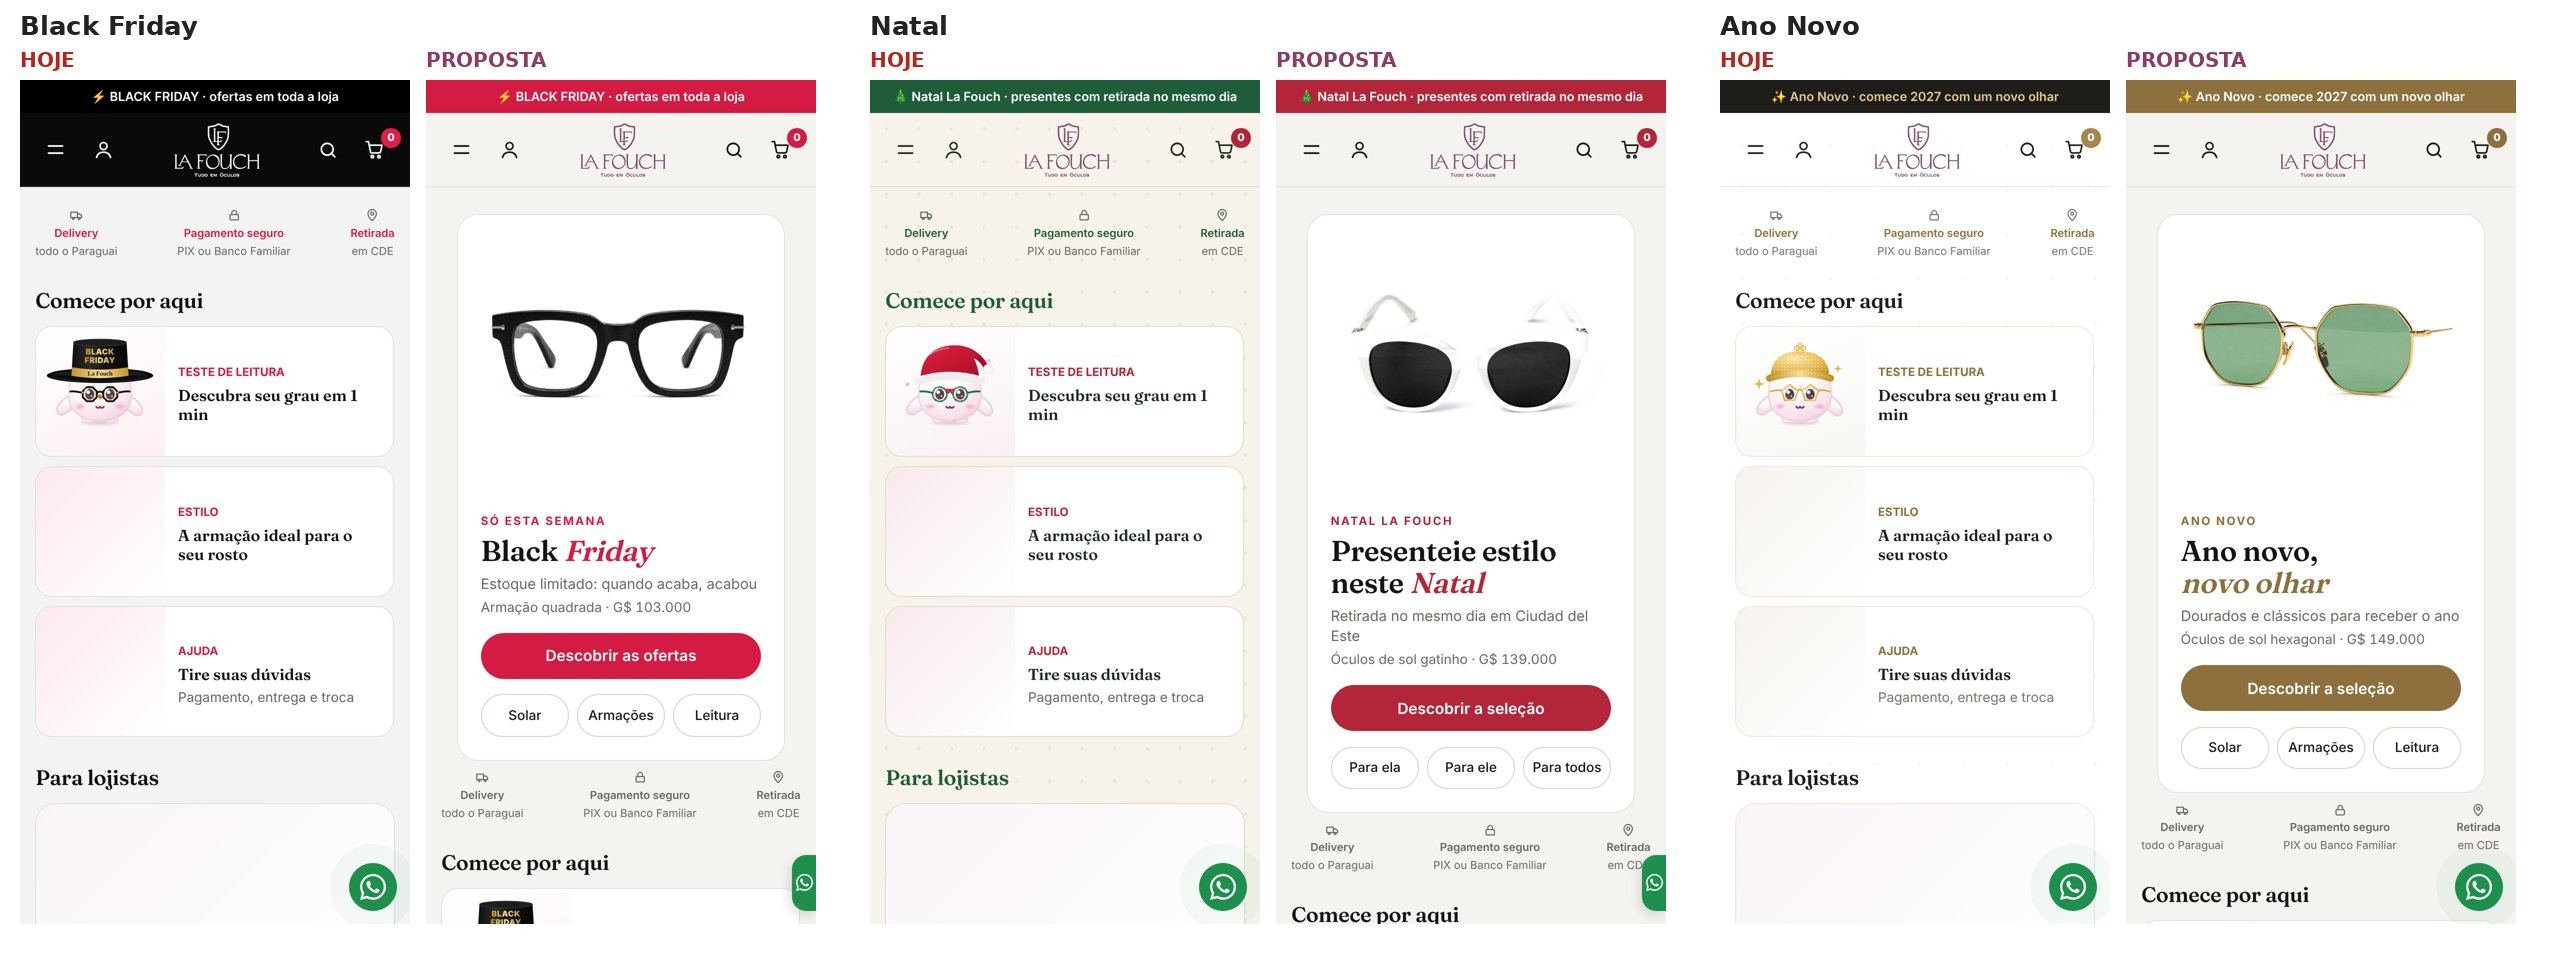
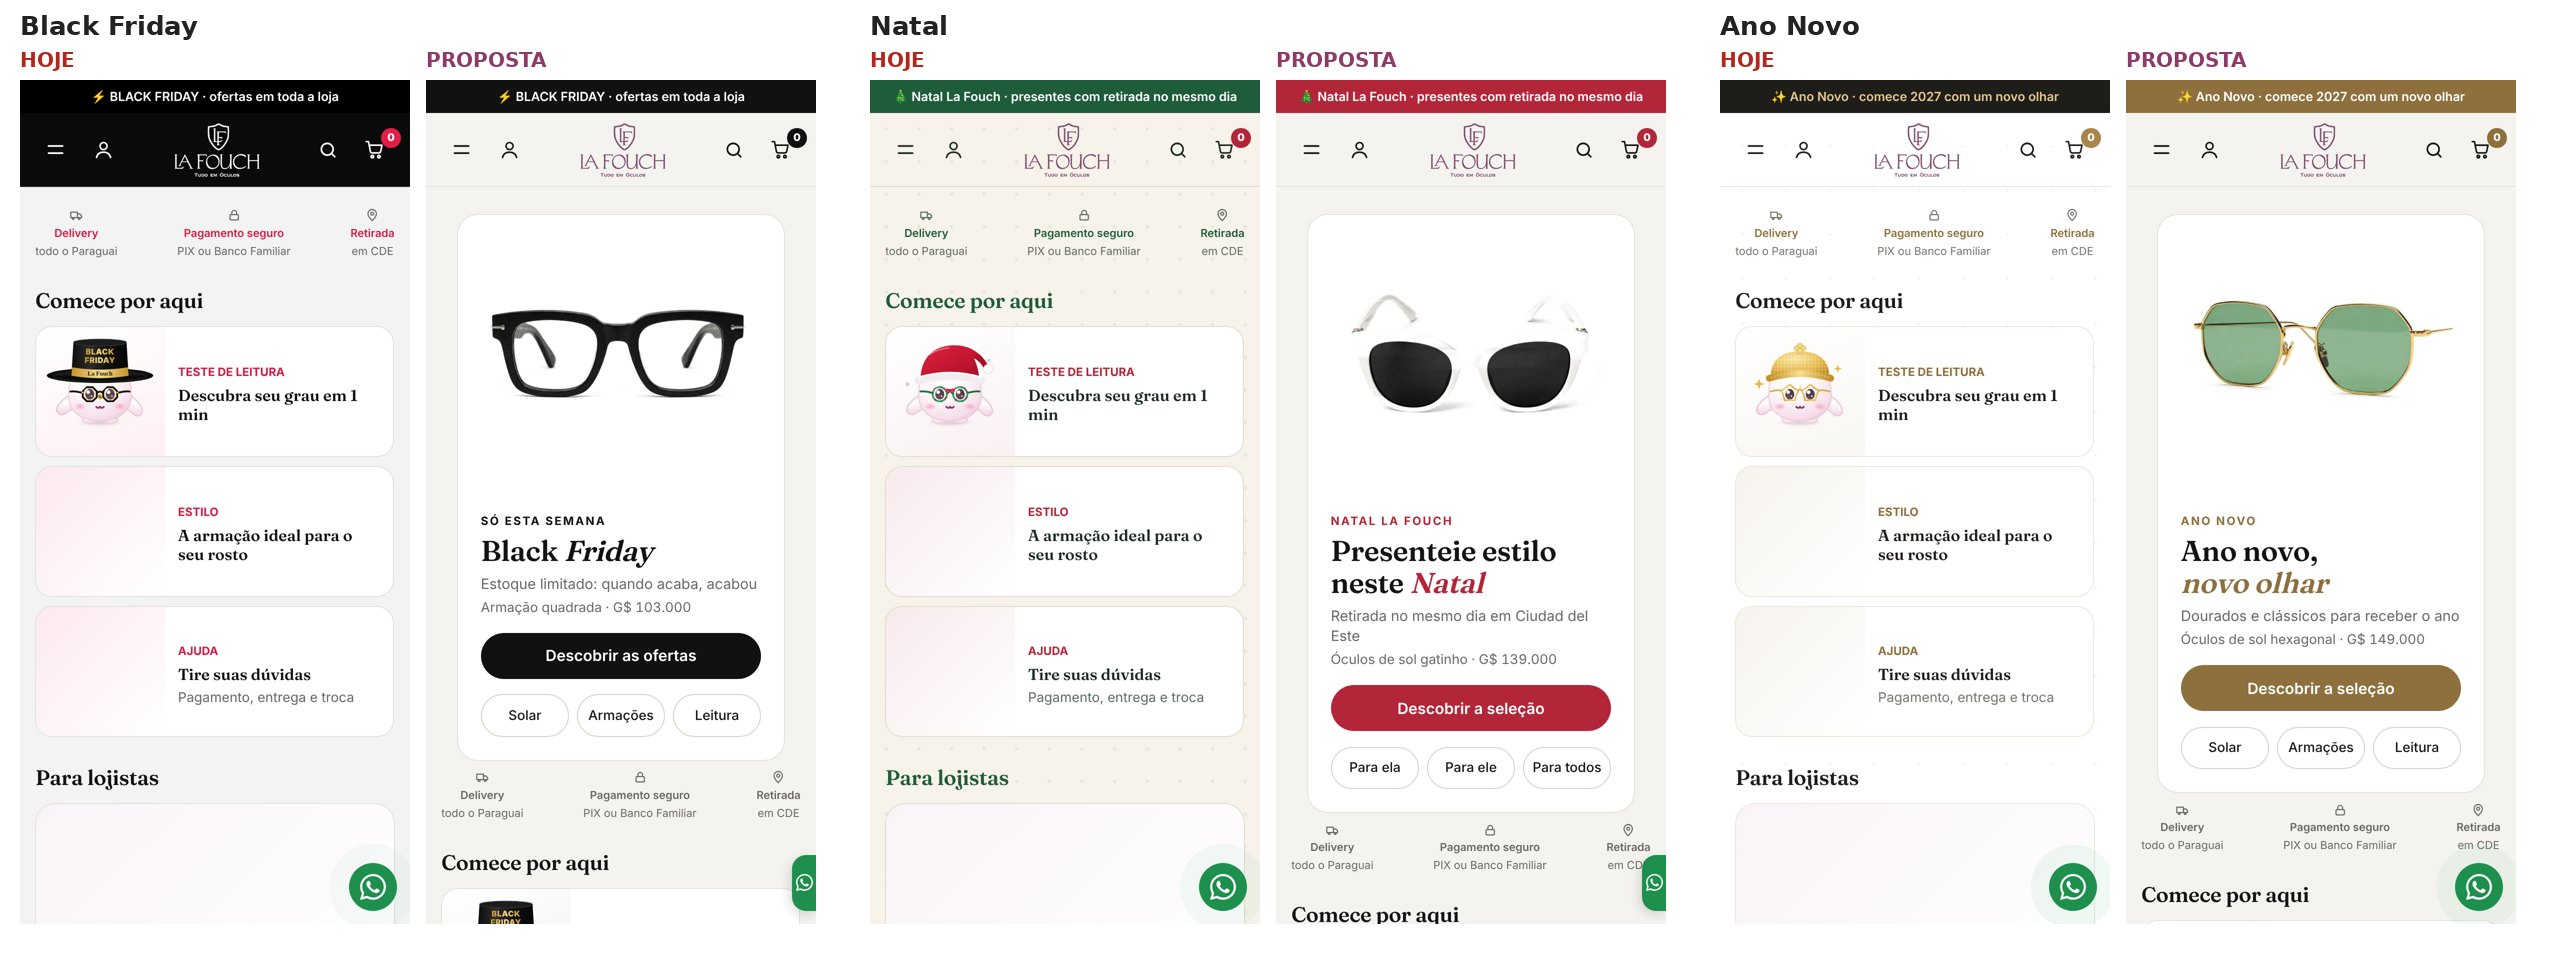
IDEIAS 06e: cor única por data (Pais azul, BF preto)
Claude-Session: https://claude.ai/code/session_01Vj5GPUFeJEi6bkCKreWEih

diff --git a/work/ideias/06-tematica/eventos.py b/work/ideias/06-tematica/eventos.py
@@ -19,7 +19,8 @@ for x in cat['docs']:
     nome = f['nome']['stringValue'].replace('LaFouch ', '').replace('Óculos de sol', 'Óculos de sol').strip()
     n = int(f['n']['integerValue']); P[r] = ['/dados/f/' + [a for a in fs if a.startswith(r + '_')][0], '%s · G$ %s' % (nome, '{:,}'.format(n).replace(',', '.'))]
 for k in D: D[k]['f'] = [P[r] for r in D[k]['p']]
-CSS = (".lfcamp{margin:16px 16px 8px;border-radius:22px;overflow:hidden;background:var(--pn);border:1px solid var(--ln)}"
+COR = 'html[data-ev=bf]{--act:#111111}html[data-ev=natal]{--act:#b3263a}html[data-ev=anonovo-n],html[data-ev=anonovo-d]{--act:#8d703e}html[data-ev=maes]{--act:#b8436f}html[data-ev=pais]{--act:#1e2f4d}html[data-ev=halloween]{--act:#5a2f72}'  # uma cor por data, sem repetir: BF preto, Natal vermelho, Ano Novo dourado, Mães rosa, Pais azul-marinho, Halloween roxo
+CSS = (COR + ".lfcamp{margin:16px 16px 8px;border-radius:22px;overflow:hidden;background:var(--pn);border:1px solid var(--ln)}"
        ".lfcamp .ft{position:relative;overflow:hidden;aspect-ratio:4/3.4;background:#fff}"
        ".lfcamp .ft .sl{position:absolute;inset:0;background:#fff center/86% no-repeat;opacity:0;transition:opacity 1.4s cubic-bezier(.45,0,.25,1)}"
        ".lfcamp .ft .sl.on{opacity:1}.lfcamp .ft .sl.vai{transition:opacity 1.4s cubic-bezier(.45,0,.25,1),transform 6.5s linear;transform:scale(1.06)}"

diff --git a/work/ideias/06-tematica/COMO-FAZER.md b/work/ideias/06-tematica/COMO-FAZER.md
@@ -127,3 +127,18 @@ O que dá a sensação de neve, mesmo com só 8 flocos:
 - **Para todas:** a mesma estrutura, o mesmo movimento (06d), uma cor de acento (o *destaque* do título e o botão), o chapéu do Mochi e a faixa.
 - **No painel do evento:** título pequeno, título, subtítulo, 3 fotos (ou vídeo) com a peça de cada uma, e a seleção (3 escolhas).
 - **Pranchas:** `esboco-06e-eventos-1.jpg` (BF, Natal, Ano Novo) e `esboco-06e-eventos-2.jpg` (Mães, Pais, Halloween).
+
+#### Cor única por data (dono 22/11 15:22: "por que não o azul nos Pais? por que dois vermelhos?")
+- **Causa:** no esboço eu usei o `--act` de hoje de cada tema, e ele não é a cor-assinatura da data. Nos Pais é o caramelo, mas a faixa é azul-marinho. A BF e o Natal eram dois vermelhos quase iguais.
+- **Regra:** cada data tem UMA cor-assinatura, sem repetir com outra data. Ela pinta a faixa, o botão e o *destaque* do título.
+
+| Data | Cor | Por quê |
+|---|---|---|
+| Black Friday | preto `#111111` | o próprio nome; o mais sóbrio |
+| Natal | vermelho `#b3263a` | a cor clássica do Natal |
+| Ano Novo | dourado `#8d703e` | brinde, brilho, sem clichê |
+| Dia das Mães | rosa `#b8436f` | já era a cor da data |
+| Dia dos Pais | azul-marinho `#1e2f4d` | o azul que o dono gosta; já era a faixa de hoje |
+| Halloween | roxo `#5a2f72` | já era o roxo do tema; não repete o laranja do dourado |
+
+- Todas têm texto branco legível no botão.
